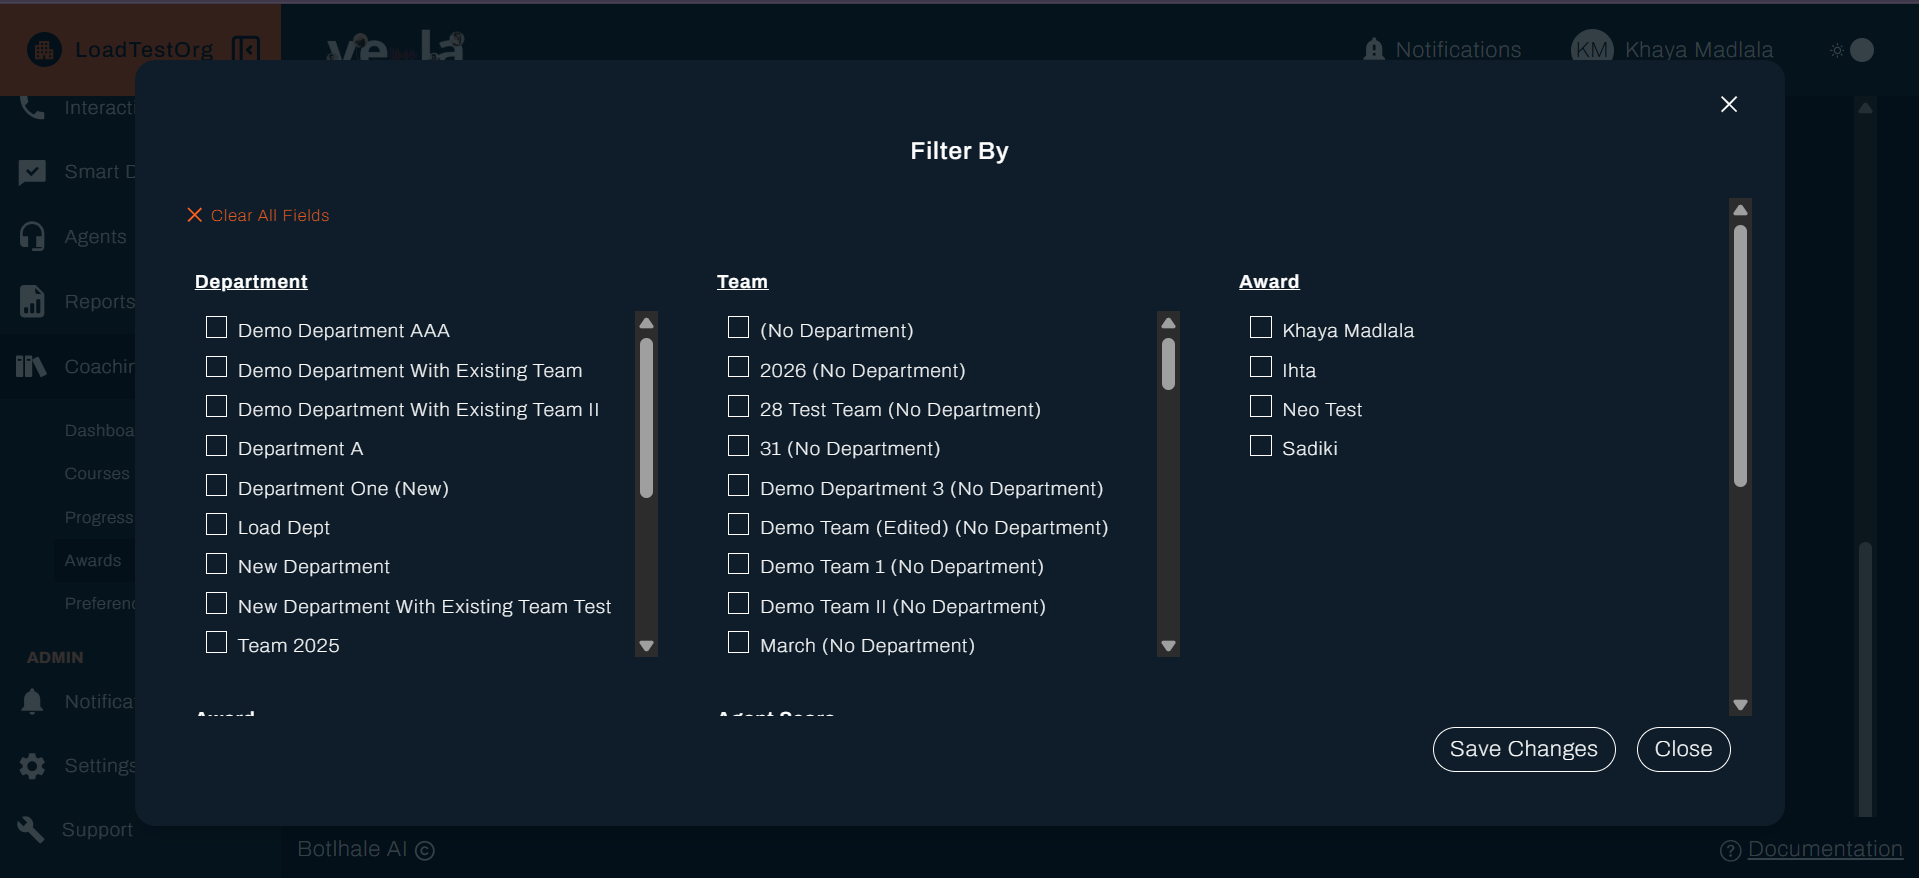
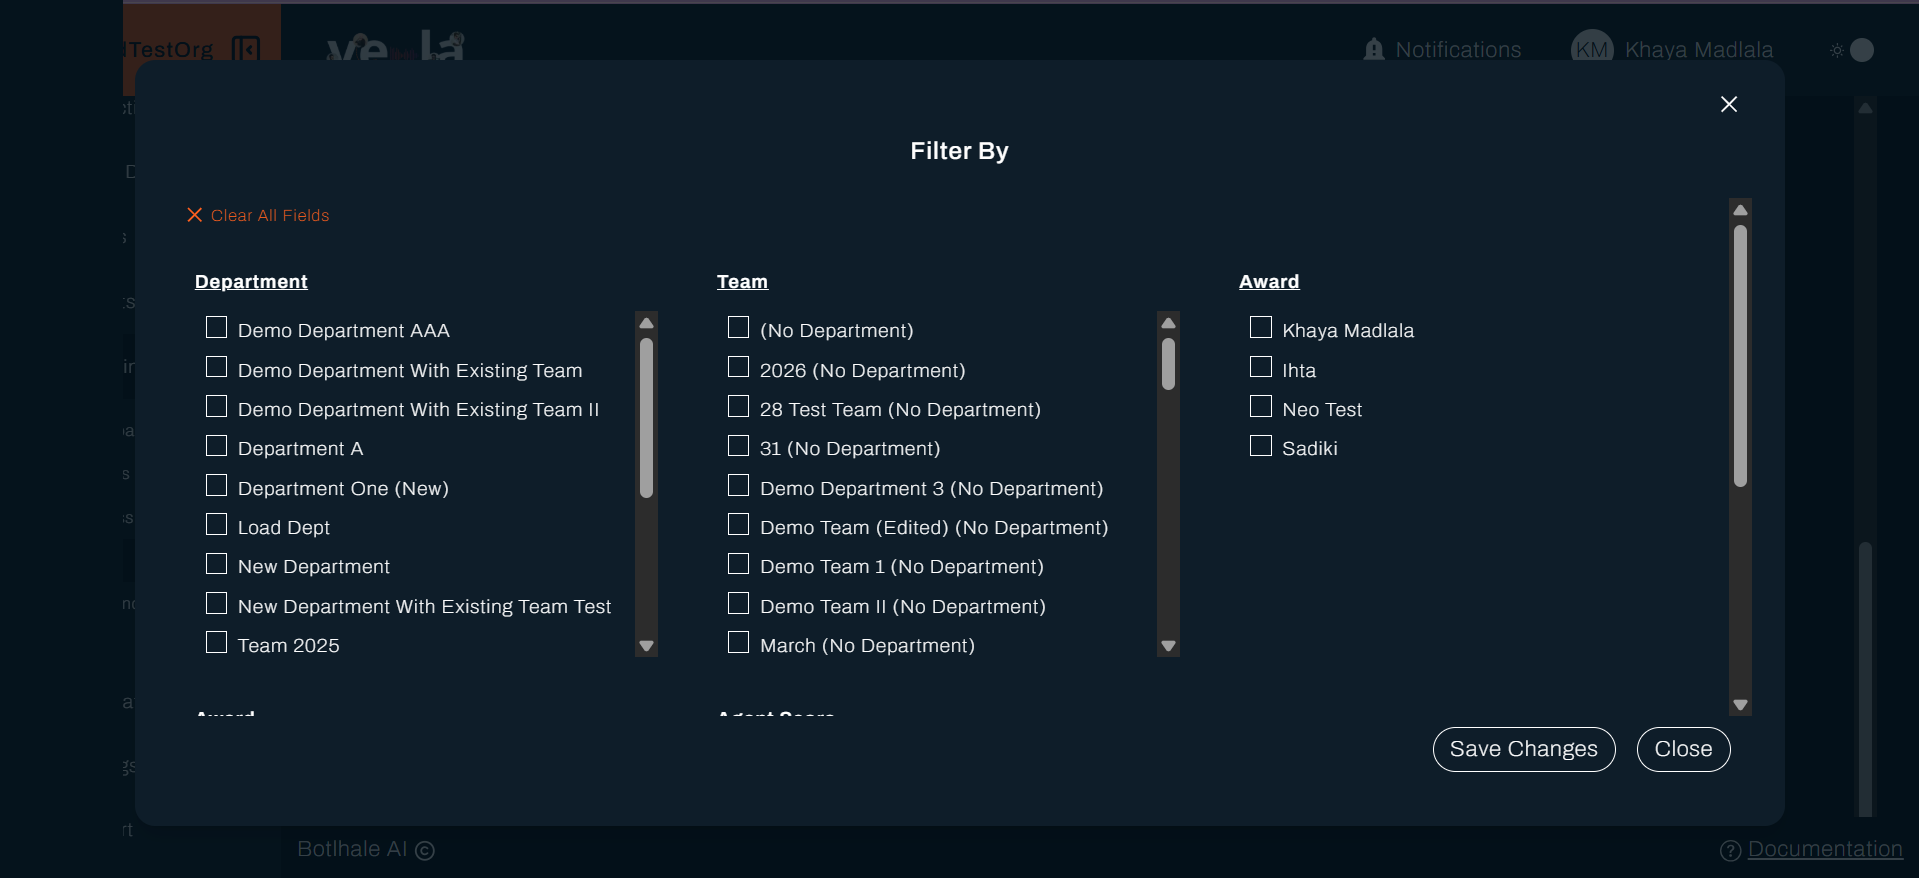
docs: paint out Support and fix a broken notification in screenshots
Six captures showed Support in the sidebar, an internal-only control
that must never appear in a screenshot. Cropped or painted it out
depending on whether cropping would clip the modal's own content.
Also painted over a broken "undefined"/"dealine" notification string
on a live screen.

Added RESHOOT comments wherever a fix is temporary rather than a
real recapture: the six above, the Cautions item that leaks into
several already-published pages' sidebars, and raw test data in two
tables. Added one UNVERIFIED comment for a Start Course/View Course
button-label discrepancy against source.

Removed two SCREENSHOT NEEDED markers in coaching-preferences.md
that existing captures already satisfy.

diff --git a/docs/team-leads/create-and-assign-courses.md b/docs/team-leads/create-and-assign-courses.md
@@ -114,6 +114,8 @@ Each question you add is listed with its number, its answer type, what it is wor
 
 ![Adding quiz questions to a course](../../img/screenshots/team_lead/courses/create-course-add-quiz.png)
 
+{/* RESHOOT: this capture originally showed Support in the ADMIN section, an internal-only control that must never appear in a screenshot. Cropped out here as a temporary fix. Reshoot from a non-@botlhale.ai account when this page is next touched. */}
+
 ---
 
 ## 5. Set Retakes, Deadline and Nudges
@@ -197,6 +199,8 @@ Read this page once after building a course. A quiz worth fewer points than you 
 Open a course from the list and select **Edit Course** to change its details, material, or questions.
 
 ![The Edit Course form, with the course details open for changing](../../img/screenshots/team_lead/courses/team-lead-courses-edit.png)
+
+{/* RESHOOT: two issues here. First, this originally showed Support in the ADMIN section, an internal-only control that must never appear in a screenshot; cropped out as a temporary fix. Second, the capture itself is the read-only course detail view with an Edit Course button, not the edit form the alt text and this step describe — reshoot the actual form open for editing, from a non-@botlhale.ai account. */}
 
 Editing changes the course for agents who have not yet completed it. Agents who already finished keep the result they earned.
 

diff --git a/docs/team-leads/coaching-dashboard.md b/docs/team-leads/coaching-dashboard.md
@@ -42,6 +42,8 @@ Two cards sit side by side below the controls, and they are read together.
 
 ![Auto Fails and Category Scores on the Coaching Dashboard](../../img/screenshots/team_lead/dashboard/dashboard-overview.png)
 
+{/* RESHOOT: the sidebar in this capture shows Cautions as a live Coaching item. Cautions is unreleased (absent from vela's origin/main; issue-cautions.md is still draft) and this page's text doesn't mention it. Reshoot from an account without the feature flag once Cautions ships, or once this capture is next redone. */}
+
 ### A. Auto Fails
 
 **Auto Fails** is a single percentage: the share of calls in the period that failed a question your organisation marks as critical, across everything **View By** covers. The **information** icon beside the heading explains the figure in place.
@@ -84,6 +86,8 @@ Where a category has no interactions in the period, its column reads **No team d
 Below the two cards, every category gets its own section, with the category name as the heading and a **chevron** to collapse it.
 
 ![One category's section, with the Average Agent Performance line chart and the grouped bar chart beside it](../../img/screenshots/team_lead/dashboard/category-performance.png)
+
+{/* RESHOOT: same Cautions-in-sidebar issue as the capture above — see the note there. */}
 
 Each section holds two charts for that category alone:
 

diff --git a/docs/team-leads/track-learning-progress.md b/docs/team-leads/track-learning-progress.md
@@ -26,6 +26,8 @@ Select **Coaching** in the left sidebar, then **Progress**. Each row pairs an ag
 
 ![The Progress table, with a row for each agent and course](../../img/screenshots/team_lead/progress/progress-table.png)
 
+{/* RESHOOT: the rows here are raw QA test data ("Khaya Test", a course called "this is a test") rather than curated demo content. Not a compliance issue, just worth cleaning up on the next reshoot of this table. */}
+
 | Column | What it shows |
 | :--- | :--- |
 | **Agent** | Who the course was assigned to |
@@ -69,6 +71,8 @@ There is no filter on an individual agent or a single course. Narrow by team and
 ![Filtering the Progress list by date](../../img/screenshots/team_lead/progress/date-filter.png)
 
 ![The detailed date range picker, with the range you set](../../img/screenshots/team_lead/progress/date-filter-detailed.png)
+
+{/* RESHOOT: this capture originally showed Support in the ADMIN section behind the dimmed backdrop, an internal-only control that must never appear in a screenshot. Cropped out here as a temporary fix. Reshoot from a non-@botlhale.ai account when this page is next touched. */}
 
 A date range that ends before it starts is refused with **Invalid date range**. Check the order of the two dates.
 

diff --git a/docs/team-leads/coaching-preferences.md b/docs/team-leads/coaching-preferences.md
@@ -26,8 +26,6 @@ You need:
 
 ## 1. Choose What Evaluations Are Based On
 
-{/* SCREENSHOT NEEDED: the Evaluation Scope section with both radio cards, All Interactions and Reviewed Interactions Only, and the selected one outlined. Suggested path: img/screenshots/team_lead/preferences/evaluation-scope.png */}
-
 Select **Coaching** in the left sidebar, then **Preferences**.
 
 Under **Evaluation Scope**, answer "Which interactions would you like these evaluations to apply to":
@@ -66,8 +64,6 @@ Monthly suits most teams. Weekly responds faster but assigns courses on less evi
 ---
 
 ## 3. Set the Pass Percentage
-
-{/* SCREENSHOT NEEDED: the Courses section of Preferences, showing the Pass Percentage input and the question above it. Suggested path: img/screenshots/team_lead/preferences/pass-percentage.png */}
 
 **Pass Percentage** is the share of the total quiz score an agent reaches to pass a course. It applies to every course, so it is set here rather than on each course.
 

diff --git a/docs/agents/your-account.md b/docs/agents/your-account.md
@@ -34,6 +34,8 @@ The page lists unread notifications only, so a tab with nothing in it reads **No
 
 ![The Notifications page in the Agent Portal, with the Awards, Courses, and Comments tabs above the list of unread notifications](../../img/screenshots/agent_view/admin/notifications.png)
 
+{/* RESHOOT: the live notification text originally read "You have been assigned undefined, your dealine to complete this course is 24-07-2025" — a broken template (course title missing) plus a typo, both visible on screen. That message line is painted over as a temporary fix so the bug isn't the thing being documented. Reshoot once the underlying "Course Assigned" notification text is fixed; until then this hides the defect rather than resolving it. */}
+
 :::note Notifications is its own page
 It sits under **ADMIN** in the sidebar, beside **Settings**. It is not a tab inside Settings, so look for it in the sidebar rather than on the Settings page.
 :::

diff --git a/docs/team-leads/recognise-good-work.md b/docs/team-leads/recognise-good-work.md
@@ -76,6 +76,8 @@ An empty list where you expected awards usually means the date range, not a faul
 
 ![The filter panel on the awards list](../../img/screenshots/team_lead/awards/filter.png)
 
+{/* RESHOOT: this capture and the sort control below it originally showed Support in the ADMIN section behind the dimmed backdrop, an internal-only control that must never appear in a screenshot. Painted over as a temporary fix rather than cropped, since the modal is wide enough that cropping clipped its own Department/Team columns. The Department and Team lists visible here are also raw QA test data ("Newdeptn", "28 Test Team", "Load Dept") rather than curated demo content — worth cleaning up on the next real reshoot. */}
+
 ![The sort control on the awards list](../../img/screenshots/team_lead/awards/sort.png)
 
 ![The date range control above the Awards Presented list](../../img/screenshots/team_lead/awards/date-range.png)

diff --git a/docs/agents/your-courses.md b/docs/agents/your-courses.md
@@ -36,6 +36,8 @@ Select **Courses** in the left sidebar. The page groups what you have by where y
 
 ![The quick search control above the courses list](../../img/screenshots/agent_view/courses/quick-search.png)
 
+{/* UNVERIFIED: this capture shows an "Assigned"-status course card with a View Course button, but Step 2 below says "Select Start Course to open one," and AgentCourseView.jsx ties the Start Course label specifically to status === "assigned". The screenshot (higher authority than source) contradicts what the source implies for that state. Needs a live check before the course-actions.png capture below is taken, since it may resolve the same question. */}
+
 ![The filter panel open on the courses list](../../img/screenshots/agent_view/courses/filter.png)
 
 ![The sort control on the courses list](../../img/screenshots/agent_view/courses/sort.png)

diff --git a/docs/team-leads/getting-started.md b/docs/team-leads/getting-started.md
@@ -25,6 +25,8 @@ You need:
 
 ![The Coaching section in the main Vela platform, with its Dashboard, Courses, Progress, Awards, and Preferences items](../../img/screenshots/team_lead/nav.png)
 
+{/* RESHOOT: this capture originally showed Support in the ADMIN section, an internal-only control (@botlhale.ai accounts only, per STYLE_GUIDE.md) that must never appear in a screenshot. Cropped out here as a temporary fix. It also showed Cautions as a live Coaching item, which is unreleased (absent from vela's origin/main) and unexplained in this page's text; that inconsistency is not fixed by the crop. Reshoot from a non-@botlhale.ai account once Cautions ships, or crop it out too if it ships after this page does. */}
+
 ---
 
 ## 1. Set the Cycle First

diff --git a/docs/agents/getting-started.md b/docs/agents/getting-started.md
@@ -57,6 +57,8 @@ The left sidebar holds everything, in two groups.
 
 ![The Agent Portal sidebar, with the TOOLS and ADMIN groups](../../img/screenshots/agent_view/agent_sidebar.png)
 
+{/* RESHOOT: this capture shows a fifth TOOLS item, Cautions, that the table above doesn't list. Cautions is unreleased (absent from vela's origin/main; issue-cautions.md is still draft). Reshoot from an account without the feature flag once Cautions ships and this page is updated to cover it, or once this capture is next redone. */}
+
 **ADMIN** is your account:
 
 | Item | What it holds |

diff --git a/docs/agents/your-awards.md b/docs/agents/your-awards.md
@@ -55,6 +55,8 @@ The page holds what your team lead set when they created the award:
 
 ![Award Details, with the message from the team lead above the certificate and the Download control](../../img/screenshots/agent_view/awards/view.png)
 
+{/* RESHOOT: same Cautions-in-sidebar issue as agent_sidebar.png in getting-started.md — see the note there. */}
+
 ---
 
 ## 3. Download the Certificate
